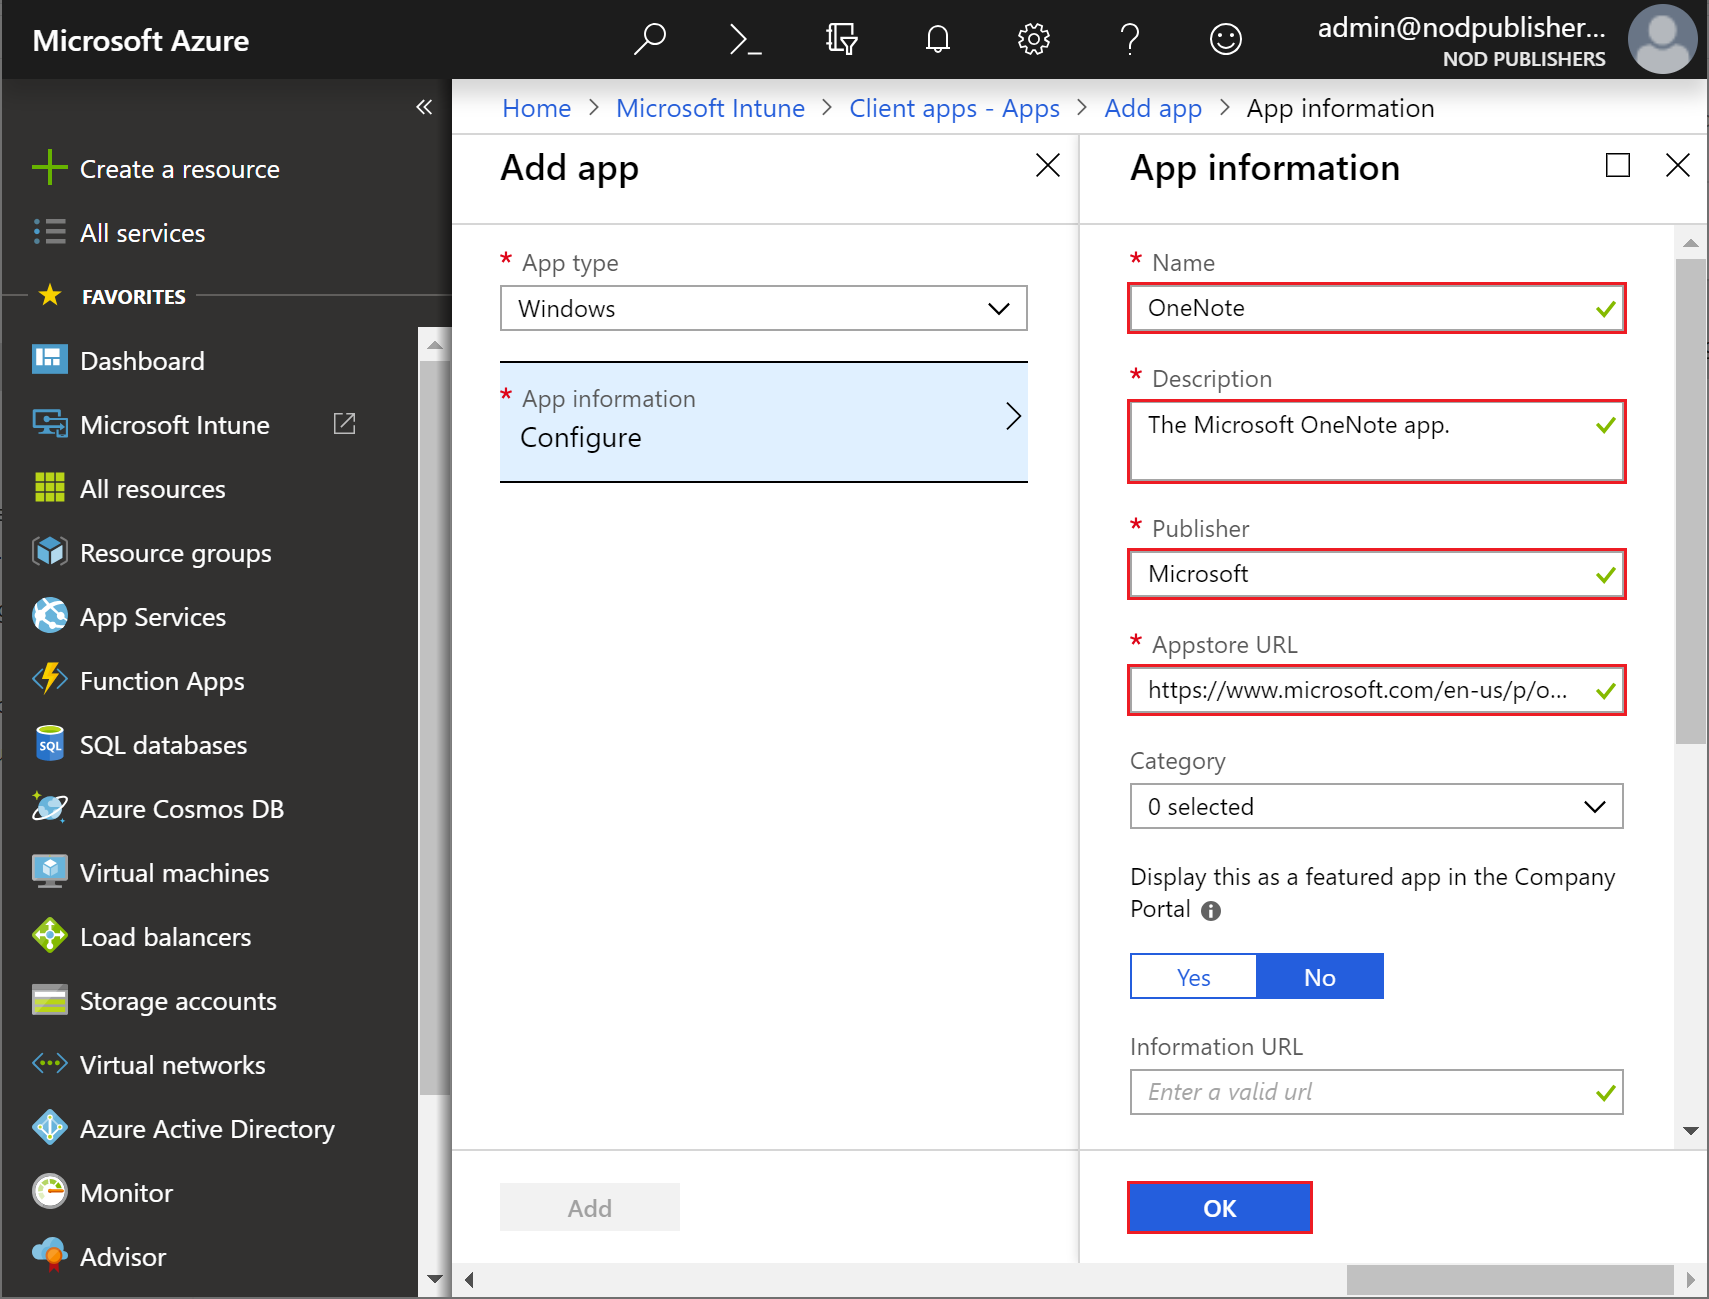
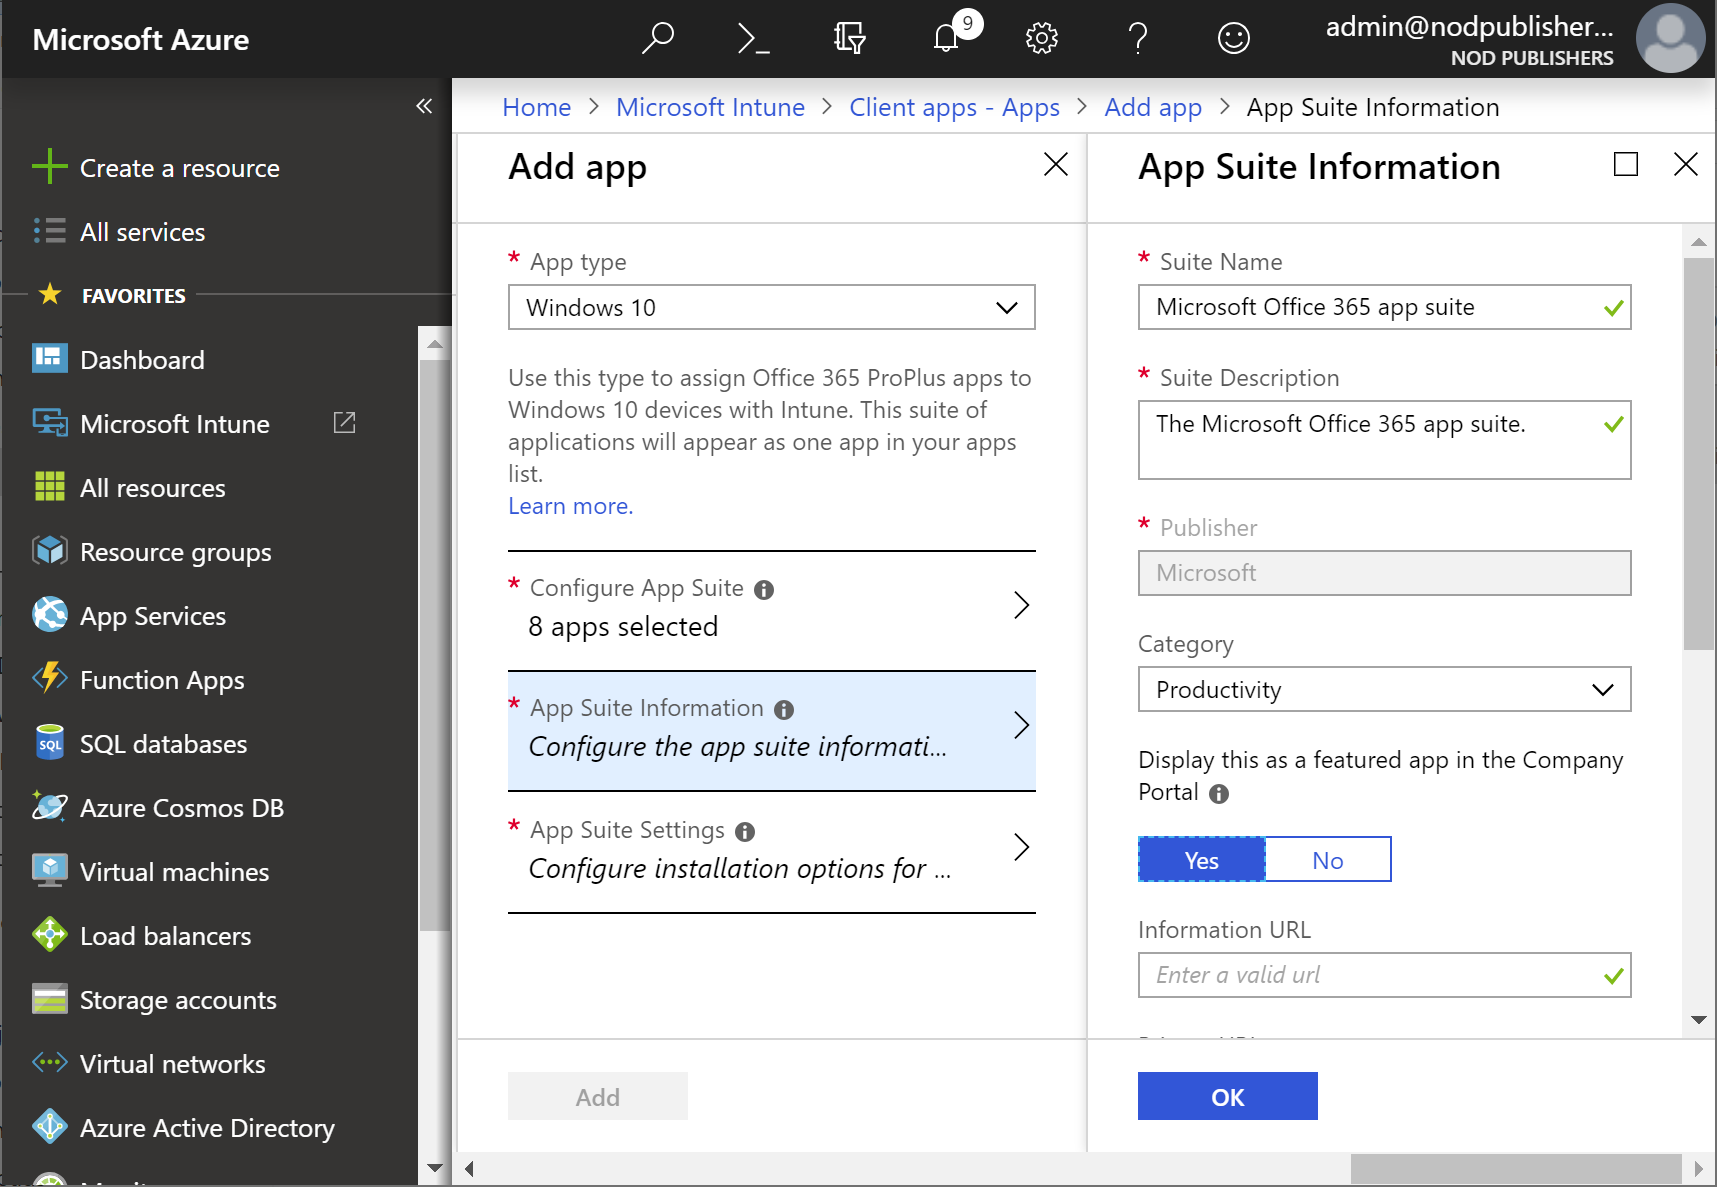
erikre 1377862 MVC AddApp 1.3

diff --git a/intune/quickstart-add-assign-app.md b/intune/quickstart-add-assign-app.md
@@ -40,13 +40,6 @@ If you don’t have an Intune subscription, [sign up for a free trial account](f
     - [Create a group](quickstart-create-group.md)
     - [Enroll a device](quickstart-setup-auto-enrollment.md)
 
-## Locate an app from the Microsoft store
-
-1. In a browser, navigate to the Microsoft store:
-    [https://www.microsoft.com/store/collections/essentialapps/pc](https://www.microsoft.com/store/collections/essentialapps/pc)
-2. Find and select the **Microsoft To-Do** app. 
-3. Copy and save the URL of the **Microsoft To-Do** app. You'll use the URL later in this quickstart.
-
 ## Sign in to Intune
 
 Sign in to the [Intune](https://aka.ms/intuneportal) as a [Global administrator or an Intune Service administrator](users-add.md#types-of-administrators). If you have created an Intune Trial subscription, the account you created the subscription with is the Global administrator.
@@ -58,17 +51,20 @@ An app can be included so that Intune can manage aspects of the app.
 Use the following steps to add an app to Intune:
 
 1. In [Intune](https://aka.ms/intuneportal), select **Client apps** > **Apps** > **Add**. 
-2. Select **Windows** in the **Store app** section of the **App type** dropdown box.
-3. Select **App information** to configure the app.
-4. Enter **Contoso's To-Do** as the **Name**.
-5. Enter **The To-Do list app.** as the **Description**.
-6. Enter **Microsoft** as the publisher.
-7. Enter the URL that you [previously saved during this quickstart](quickstart-add-assign-app.md#locate-an-app-from-the-microsoft-store) in the **Appstore URL** box.
+2. Select **Windows 10** in the **Office 365 Suite** section of the **App type** dropdown box.
+3. Select **Configure App Suite** to select the Office apps to be assigned to the Intune user.
+4. Click **OK** to accept the default selected apps.
+5. Select **App Suite Information**.
+6. Enter **Microsoft Office 365 app suite** as the **Suite Name**.
+7. Enter **The Microsoft Office 365 app suite.** as the **Suite Description**.
+8. Click **Yes** next to **Display this as a featured app in the Company Portal**.
+9. Click **OK**.
 
     ![Screenshot of adding app information](media/quickstart-add-assign-app/quickstart-add-assign-app-01.png)
 
-8. Click **Yes** next to **Display this as a featured app in the Company Portal**. 
-9. Click **OK** > **Add**.
+8. Select **App Suite Settings**.
+9. In the **Update Channel** dropdown box, select **Monthly**.
+10. Click **OK** > **Add**.
 
 ## Assign the app to a group
 
@@ -87,7 +83,7 @@ Use the following steps to assign an app to a group:
 
 You now have assigned the app to the **Contoso Testers** group.
 
-## Verify the app on the enrolled device
+## Install the app on the enrolled device
 
 You must install and use the Company Portal app to install the **Contoso's To-Do** app made available by Intune. Use the following steps to verify that the app is available to the user of the enrolled device.
 
@@ -98,16 +94,19 @@ You must install and use the Company Portal app to install the **Contoso's To-Do
 
 2. From the **Start** menu, open the **Microsoft Store**. Then, find the **Company Portal** app and install it.
 3. Launch the **Company Portal** app.
-4. Find the app that you added using Intune. In this quickstart you added the **Contoso's To-Do** app.
-5. Click **View in Microsoft Store**.
-6. Click **Install**.  **Install on my devices**.
-7. Install the app to your current Windows 10 Desktop device.
+4. Click the app that you added using Intune. In this quickstart you added the **Microsoft Office 365 app suite** app.
+
+    > [!NOTE]
+    > If you did not successfully assign any apps to the Intune user, you will see the following message:
+    > *Your IT administrator did not make any apps available to you.*
+
+5. Click **Install**.
 
 If your business needs require that you assign the Company Portal app to your workforce, you can manually assign the Windows 10 Company Portal app directly from Intune. For more information see, [Manually add the Windows 10 Company Portal app by using Microsoft Intune](store-apps-company-portal-app.md).
 
 ## Next steps
 
-In this quickstart, you locateed an app from the Microsoft store, added the app to Intune, assigned the app to a group, and verified the availability of the app on the enrolled Windows 10 Desktop device. 
+In this quickstart, you added the app to Intune, assigned the app to a group, and installed the app on the enrolled Windows 10 Desktop device. 
 
 > [!div class="nextstepaction"]
 > [Quickstart: Create and assign an app protection policy](quickstart-create-assign-app-policy.md)

diff --git a/intune/quickstart-create-assign-app-policy.md b/intune/quickstart-create-assign-app-policy.md
@@ -52,17 +52,17 @@ Use the following steps create an app protection policy:
 1. In [Intune](https://aka.ms/intuneportal), select **Client apps** > **App protection policies** > **Create Policy**. 
 2. Enter the following details: 
 
-    - **Name**: Pilot - *Windows 10 prevent content copy*
+    - **Name**: *Windows 10 content protection*
     - **Description**: *Users associated with this policy will not be able to cut, copy, or paste any content between the assigned app and other non-managed apps on the device.*
     - **Platform**: *Windows 10*
     - **Enrollment state**: *With enrollment*
 
 3. Select **Protected apps** to choose the apps that must adhere to this policy.
 4. Click **Add apps**.
-5. Under **Recommended apps**, find and select **Microsoft OneNote**.
+5. Under **Recommended apps**, select **Word Mobile**.
 5. Click **OK** > **OK**. 
 6. Select **Required settings** to configure the app.
-7. Click **Block** to set the Windows Information Protection mode. Selecting this option will block enterprise data from leaving the protected app.
+7. Click **Allow Overrides** to set the Windows Information Protection mode. Selecting this option will block enterprise data from leaving the protected app.
 8. Click **OK** > **Create**.
 
 You’ll now see the app protection policy in Intune.
@@ -74,7 +74,7 @@ After you've created an app protection policy in Intune, you can assign to group
 Use the following steps to assign the app protection policy:
 
 1.	In [Intune](https://aka.ms/intuneportal), select **Intune** > **Client apps** > **App protection policies**. 
-2.	Select the app protection policy you created earlier. In this quickstart, the policy is **Windows 10 prevent content copy**.
+2.	Select the app protection policy you created earlier. In this quickstart, the policy is **Windows 10 content protection**.
 3.	Select **Assignments**.
 4.	Click **Select groups to include** in the **Include** tab.
 5.	Select **Contoso Testers** as the group to include.
